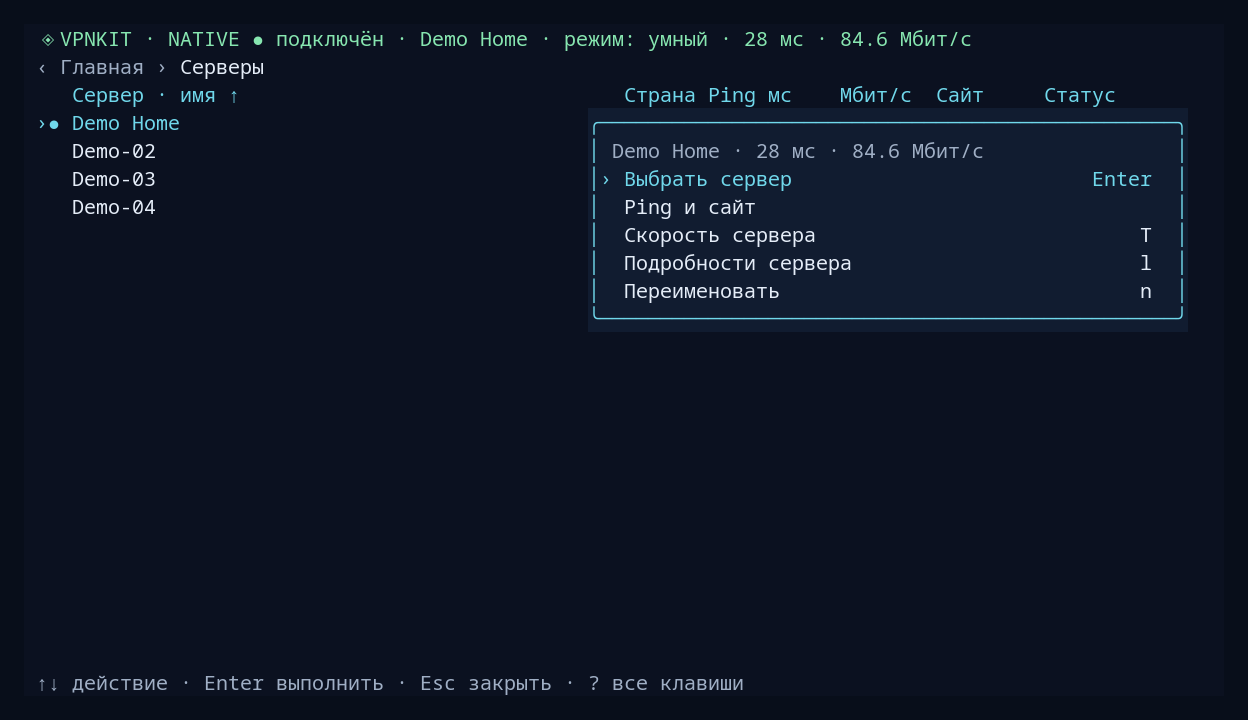
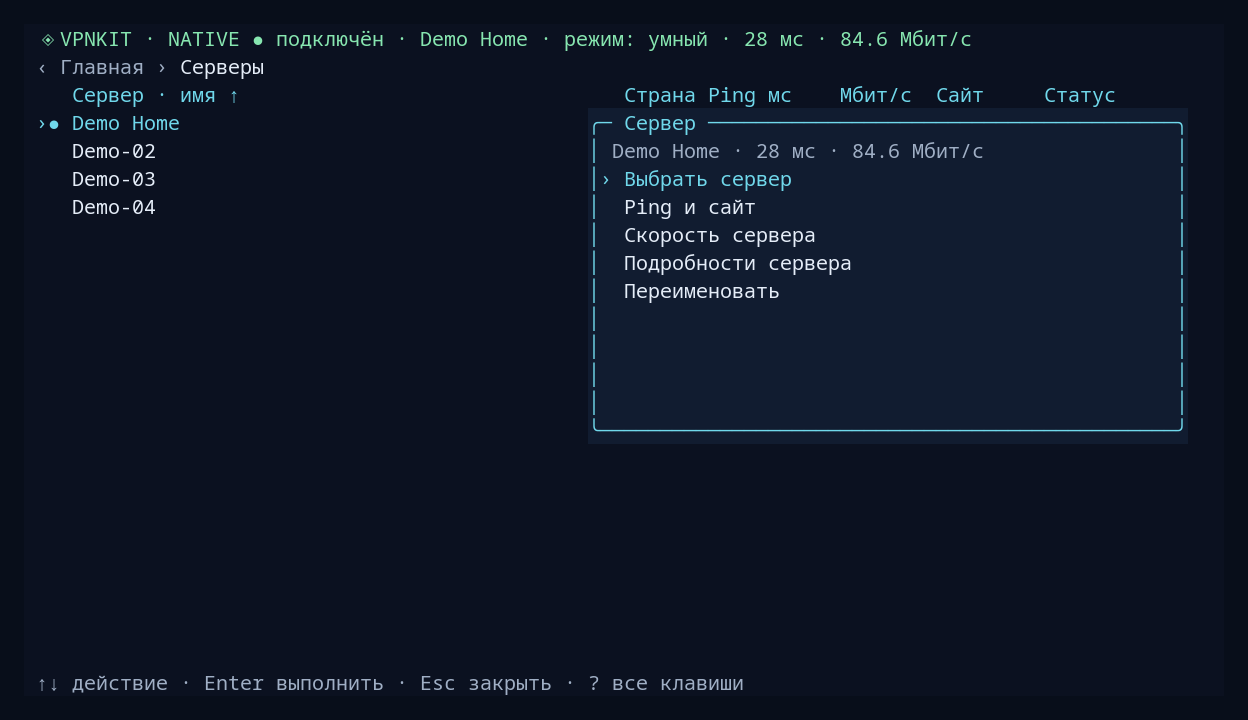
feat(tui): server row menu and details share one panel

diff --git a/scripts/vpnkit/tui/overlay-view.ts b/scripts/vpnkit/tui/overlay-view.ts
@@ -6,6 +6,7 @@ import { EditorView } from "./editor-view";
 import { MIN_COLS, MIN_ROWS, palette as p } from "./model";
 import { cell, safeText, wrapText } from "./formatting";
 import { serverMenuActions } from "./action-registry";
+import { detailsLines } from "./details-view";
 
 /** Absolute overlay host. Other modal views can use the same positioning pattern. */
 export class OverlayView {
@@ -26,7 +27,7 @@ export class OverlayView {
     root.add(this.dialog);
     this.rowBackdrop = new BoxRenderable(renderer, { position: "absolute", top: 0, left: 0, width: "100%", height: "100%", zIndex: 48, visible: false, onMouseDown: event => { if (event.button === 0) this.current?.closeServerMenu(); } });
     root.add(this.rowBackdrop);
-    this.rowMenu = new BoxRenderable(renderer, { position: "absolute", top: 3, left: 2, width: 48, height: 7, zIndex: 49, border: true, borderStyle: "rounded", borderColor: p.accent, backgroundColor: p.panel, overflow: "hidden", flexDirection: "column", visible: false });
+    this.rowMenu = new BoxRenderable(renderer, { position: "absolute", top: 3, left: 2, width: 48, height: 7, zIndex: 49, border: true, borderStyle: "rounded", borderColor: p.accent, backgroundColor: p.panel, title: " Сервер ", overflow: "hidden", flexDirection: "column", visible: false });
     this.rowMenu.onMouseDown = event => event.stopPropagation();
     this.rowHeader = new TextRenderable(renderer, { content: "", height: 1, fg: p.muted, flexShrink: 0 }); this.rowMenu.add(this.rowHeader);
     for (let i = 0; i < 5; i++) {
@@ -97,13 +98,21 @@ export class OverlayView {
     const chosen = entries[state.paletteIndex]?.action;
     this.box.bottomTitle = chosen && !chosen.available ? cell(` ${safeText(chosen.unavailableReason ?? "Недоступно.")} `, width - 4).trimEnd() + " " : undefined;
   }
+  /** Geometry shared by the server row menu and the server details: right side, fixed size. */
+  private serverPanel(state: AppState) {
+    const width = Math.min(50, this.renderer.terminalWidth - 4);
+    const menuHeight = 3 + serverMenuActions(state).length;
+    const detailsHeight = 2 + detailsLines(state).flatMap(line => wrapText(line, width - 2)).length;
+    const height = Math.min(this.renderer.terminalHeight - 3, Math.max(menuHeight, detailsHeight));
+    return { width, height, left: Math.max(1, this.renderer.terminalWidth - width - 3), top: Math.max(0, Math.min(3, this.renderer.terminalHeight - height - 1)) };
+  }
   update(state: AppState) {
     this.current = state;
     this.updatePalette(state);
     const rowVisible = state.serverMenu && !state.helpOpen && this.renderer.terminalWidth >= MIN_COLS && this.renderer.terminalHeight >= MIN_ROWS;
     this.rowBackdrop.visible = rowVisible; this.rowMenu.visible = rowVisible;
     if (rowVisible) {
-      const width = Math.min(50, this.renderer.terminalWidth - 4);
+      const { width, left, top, height: panelHeight } = this.serverPanel(state);
       const entries = serverMenuActions(state);
       const target = state.serverMenuTarget;
       const server = state.servers.find(s => s.server_id === target?.id && s.display_name === target.name);
@@ -112,17 +121,15 @@ export class OverlayView {
       let height = 3;
       this.rowEntries.forEach((row, i) => {
         const action = entries[i]; row.visible = !!action; if (!action) return;
-        const hint = action.key === "shift+t" ? "T" : action.key === "return" ? "Enter" : action.key;
         const label = `${i === state.serverMenuIndex ? "›" : " "} ${action.label}`;
-        const padding = Math.max(1, width - 4 - Bun.stringWidth(label) - Bun.stringWidth(hint));
         const reason = action.unavailableReason && i === state.serverMenuIndex ? wrapText(action.unavailableReason, width - 4).map(line => `  ${line}`) : [];
-        row.content = `${label}${" ".repeat(padding)}${hint}${reason.length ? `\n${reason.join("\n")}` : ""}`;
+        row.content = `${label}${reason.length ? `\n${reason.join("\n")}` : ""}`;
         row.height = 1 + reason.length; height += 1 + reason.length;
         row.fg = action.available ? i === state.serverMenuIndex ? p.accent : p.text : p.muted;
       });
-      this.rowMenu.width = width; this.rowMenu.height = Math.min(height, this.renderer.terminalHeight - 3);
-      this.rowMenu.left = Math.max(1, this.renderer.terminalWidth - width - 3);
-      this.rowMenu.top = Math.min(3, this.renderer.terminalHeight - Number(this.rowMenu.height) - 1);
+      // The row menu and «Подробности сервера» share one panel: same place, same size.
+      this.rowMenu.width = width; this.rowMenu.height = Math.max(panelHeight, Math.min(height, this.renderer.terminalHeight - 3));
+      this.rowMenu.left = left; this.rowMenu.top = Math.min(top, this.renderer.terminalHeight - Number(this.rowMenu.height) - 1);
     }
     const modal = isOverlay(state.screen) && this.renderer.terminalWidth >= MIN_COLS && this.renderer.terminalHeight >= MIN_ROWS;
     const editor = ["subscription", "target", "profile-name", "profile-source", "server-rename"].includes(state.screen);
@@ -147,6 +154,12 @@ export class OverlayView {
       this.dialog.width = width; this.dialog.height = height;
       this.dialog.left = Math.floor((this.renderer.terminalWidth - width) / 2);
       this.dialog.top = Math.floor((this.renderer.terminalHeight - height) / 2);
+      if (state.screen === "details") {
+        const panel = this.serverPanel(state);
+        this.dialog.width = panel.width; this.dialog.height = panel.height; this.dialog.left = panel.left; this.dialog.top = panel.top;
+        state.detailsOffset = Math.min(state.detailsOffset, Math.max(0, this.dialogSummary.fit(panel.width - 2) - (panel.height - 2)));
+        this.dialogSummary.update(state); this.dialogSummary.fit(panel.width - 2, state.detailsOffset, panel.height - 2);
+      }
       this.dialog.title = state.screen === "server-rename" ? ` ${safeText(state.renameTarget?.original ?? "Сервер")} ` : ["confirm", "profile-remove", "cancel-confirm", "retry-confirm"].includes(state.screen) ? " Подтверждение " : state.screen === "autostart" ? " Автозапуск " : state.screen === "details" ? " Сервер " : state.screen === "tasks" ? " Задачи " : state.screen === "recovery" ? " Восстановление " : " Редактор ";
       const availableRows = Math.max(1, height - 2 - summaryHeight);
       this.dialogMenu.update(items, editor, state.selected, width - 2, availableRows);

diff --git a/scripts/vpnkit/tui/shell-presentation.test.ts b/scripts/vpnkit/tui/shell-presentation.test.ts
@@ -488,3 +488,14 @@ test("servers without a table show the start row and footer without letters", as
     expect(backend.calls.some(call => call.action === "backend/start")).toBe(true);
   } finally { await app.close(); }
 });
+
+test("server row menu and server details share one panel position and size", async () => {
+  const { terminal: t, app } = await fixture(110, 20);
+  try {
+    const box = () => { const lines = t.captureCharFrame().split("\n"); const top = lines.findIndex(line => line.includes("╭─ Сервер")); const bottom = lines.findIndex((line, i) => i > top && line.includes("╰")); return { top, bottom, left: lines[top]!.indexOf("╭"), right: lines[top]!.lastIndexOf("╮") }; };
+    app.openServerMenu(); await t.renderOnce(); const menu = box();
+    expect(t.captureCharFrame()).not.toMatch(/Скорость сервера +T/);
+    app.closeServerMenu(); app.open("details"); await t.renderOnce(); const details = box();
+    expect(menu.top).toBeGreaterThan(0); expect(details).toEqual(menu);
+  } finally { await app.close(); }
+});

diff --git a/docs/releases/0.5.5.md b/docs/releases/0.5.5.md
@@ -9,6 +9,7 @@ Menu screens put a letter in front of every row, so they read as "press a letter
 - Lists stay compact on wide terminals.
 - **Home screen:** the «Замеры» tile is gone (running checks still open the task list, `j` still opens it). The five tiles are solid filled blocks with centred text (no box-drawing borders, which some terminals draw dashed); the selected tile is brighter.
 - **Diagnostics:** the «Обновить диагностику» action comes first; the state follows as a compact two-column grid. **Profiles** starts right below the breadcrumb.
+- **Server panel:** the row menu (Enter on a server) and «Подробности сервера» open as the same panel on the right, same size; the row menu no longer shows letters.
 - Quieter status line: no «Список загружен.» after background list reads; clearer service start/stop messages; the Profiles hint moved to the status line.
 - README screenshots updated.
 
